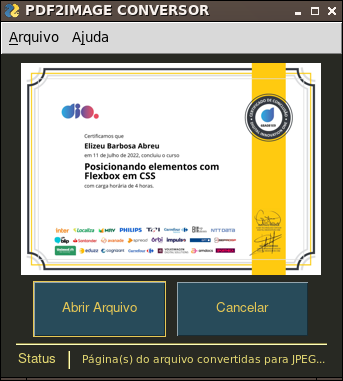
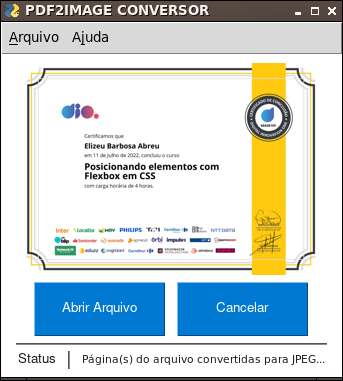
Diversas modificacoes no software

diff --git a/app.py b/app.py
@@ -29,12 +29,11 @@ def converter(file, pg):
         janela['-msg-'].update("Página(s) do arquivo convertidas para JPEG...")
     
     except:        
-        sg.popup_error('Erro',
-                       'Verifique se você tem o pacote "poppler-utils" \
-instalado em seu computador ou a quantidade de páginas de seu arquivo PDF...')
+        sg.popup_error('Verifique se você tem o pacote "poppler-utils" \
+instalado em seu computador ou a quantidade de páginas de seu arquivo PDF...', title='Erro!!!')
         janela['-msg-'].update('')
         
-sg.theme('Topanga')
+sg.theme('Reddit')
 
 menu = [
     ['&Arquivo', ['Abrir Arquiv&o','&Cancelar']],
@@ -58,7 +57,17 @@ while True:
         break
     
     if evento in ('Manual do Software'):        
-        sg.popup('fff', 'Bla, Bla, Bla')    
+        sg.popup('==============MANUAL DO USUÁRIO==============',
+               '''=============================================
+
+(1) Abra um arquivo PDF através do menu ou botão [Abrir Arquivo].
+(2) No Popup clique em [browse] para navegar até o Diretório/Arquivo.
+(3) Com o Arquivo escolhido clique em [Open] e em [Ok]...
+(4) Agora clique em [Yes] para Converter todas as páginas ou em [No]
+caso queira converter apenas uma determinado página em Imagem...
+(5) Agora só Aguardar seu arquivo PDF ser convertida em JPG...
+=============================================
+''', location=(0,0), title='MANUAL DO USUÁRIO')    
     
     if evento in ('Abrir Arquivo'):        
         janela["capa"].update('')
@@ -71,7 +80,7 @@ while True:
             path = f'{os.path.normpath(os.path.dirname(file))}/'            
            
         except:            
-            sg.popup('Arquivo Vazio', 'Você não escolheu nenhum arquivo PDF para converter em imagem...')           
+            sg.popup('Você não escolheu nenhum arquivo PDF para converter em imagem...', title='Arquivo Vazio')           
                  
         if file != None and file != '' and file != './':            
             janela['-msg-'].update(f'Seu PDF Está Sendo Convertido Em Imagem... Aguarde...')            
@@ -82,7 +91,7 @@ while True:
                     converter(file, 'all')                
 
                 except:
-                    sg.popup_error('Sinto muito!', 'Vou ficar devendo essa! Não consegui converter seu arquivo em imagens...')
+                    sg.popup_error('Vou ficar devendo essa! Não consegui converter seu arquivo em imagens...', title='Sinto muito!')
                 
                 gerar_capa(path) 
                             
@@ -93,8 +102,7 @@ while True:
                     converter(file, int(pg))
                     
                 except:
-                    sg.popup_error('Sinto muito!',
-                                       'Vou ficar devendo essa! Não consegui converter seu arquivo em imagens...')
+                    sg.popup_error('Vou ficar devendo essa! Não consegui converter seu arquivo em imagens...', title='Sinto muito!')
                 
                 gerar_capa(path)            
     

diff --git a/README.md b/README.md
@@ -1,3 +1,40 @@
-# Conversor de PDF para imagem JPG
-
 # Conversor-PDF2IMAGE-
+
+Este é um software construído inteiramente em Python e que tem por finalidade converter páginas de um arquivo PDF em imagens com a extensão JPG. Isso é útil quando queremos enviar um certificado em uma rede social onde somente aceita imagem. Já fazia isso via linha de comando, mas resolvi criar esse aplicativo com interface gráfica.
+
+![Conversor-PDF2IMAGE](image.png)
+
+## Instalação do Conversor-PDF2IMAGE em Linux
+
+Verifique se você já tem o git e o python instalado em seu OS. 
+Clone e configure o **Conversor-PDF2IMAGE** no terminal usando os comandos:
+
+~~~
+git clone https://github.com/elizeubarbosaabreu/Conversor-PDF2IMAGE-
+cd Conversor-PDF2IMAGE-
+python3 -m venv .venv
+source .venv/bin/activate
+pip install -r requirements.txt
+python app.py
+~~~
+
+Se tudo estiver certo o **Conversor-PDF2IMAGE** abrirá...
+
+Agora mova o projeto para a pasta opt
+
+
+## Instalação do Conversor-PDF2IMAGE em Windows
+
+Confira se o git e o python está presente no sistema operacional.
+Dentro do prompt de comando cole os comandos abaixo:
+
+~~~
+git clone https://github.com/elizeubarbosaabreu/Conversor-PDF2IMAGE-
+cd Conversor-PDF2IMAGE-
+python -m venv .venv
+source .venv\bin\activate.bat
+pip install -r requirements.txt
+python app.py
+~~~
+
+Se
